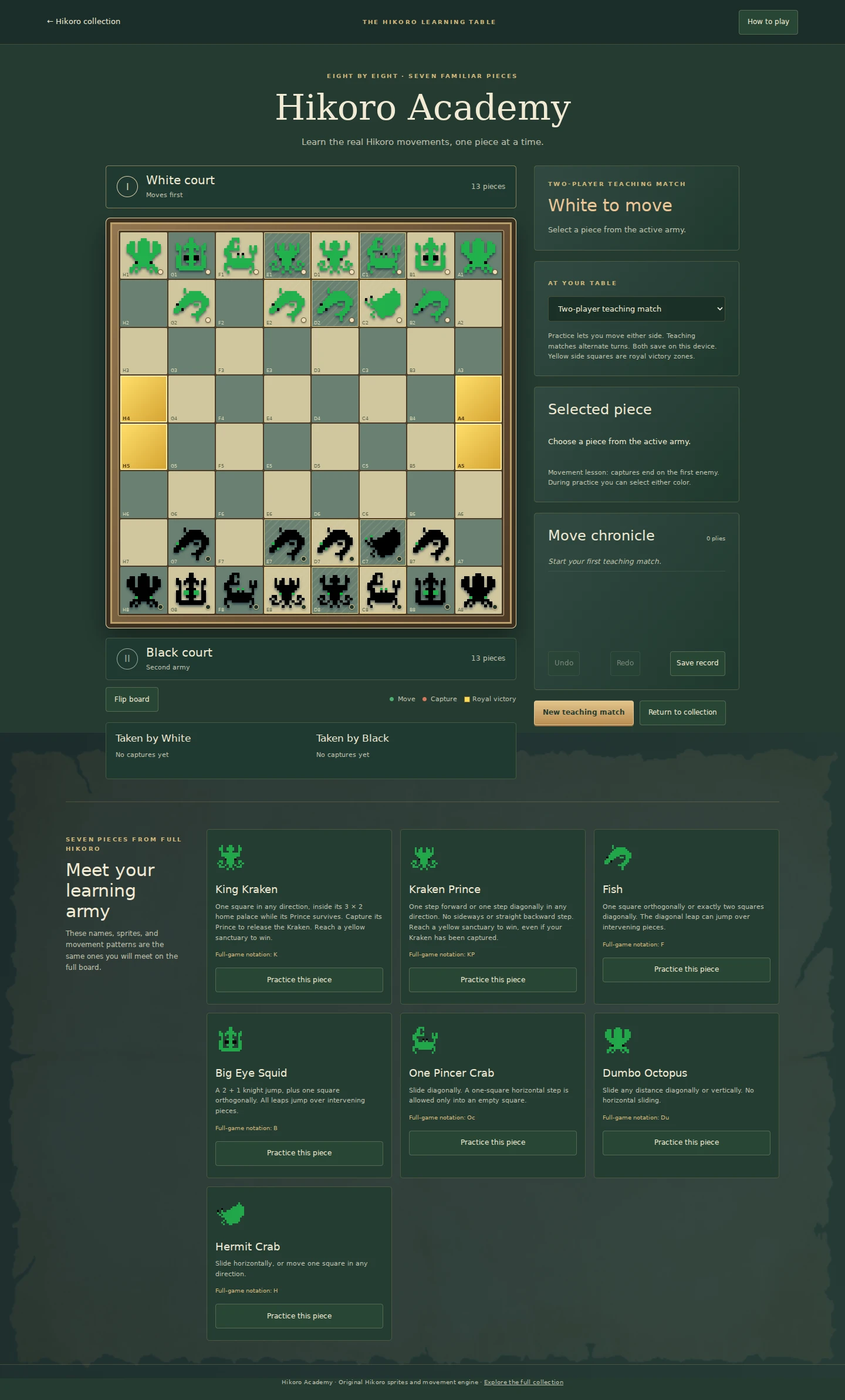
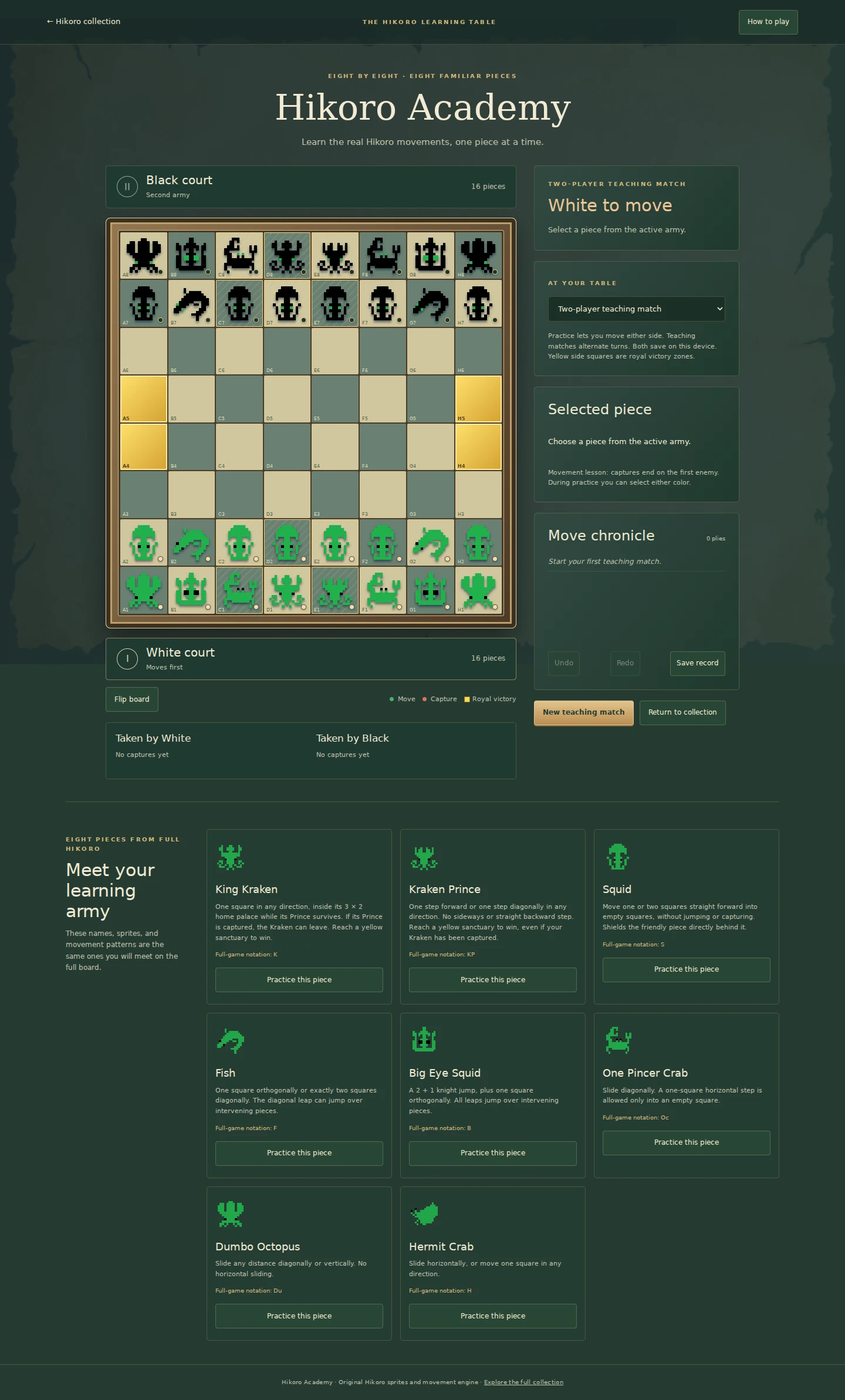
Use symmetric Squid and Fish second ranks in Hikoro Academy

diff --git a/HikoroChess/tests/academy.test.js b/HikoroChess/tests/academy.test.js
@@ -3,13 +3,13 @@ const {createServer}=require('../server'),{io:connect}=require('socket.io-client
 const move=(a,b)=>({from:{r:a[0],c:a[1]},to:{r:b[0],c:b[1]}});
 function pos(type,r=3,c=3){const s=A.initial();s.board=Array.from({length:8},()=>Array(8).fill(null));s.board[r][c]={type,owner:1};return s;}
 const coords=(s,from)=>A.legalMoves(s,from).map(p=>p.r+','+p.c).sort();
-test('26-piece teaching setup, seven authentic types and all lesson setups replay correctly',()=>{const s=A.initial();assert.equal(s.board.flat().filter(Boolean).length,26);assert.equal(s.board[7][3].type,'lupa');assert.equal(s.board[0][3].owner,2);assert.equal(Object.keys(A.TYPES).length,7);for(const type of Object.keys(A.TYPES)){const practice=A.initial('lesson',type);const origin=A.lessonOrigin(type);assert.equal(practice.board[origin.r][origin.c].type,type);assert.equal(practice.board.flat().filter(Boolean).length,['lupa','prince'].includes(type)?6:5);assert.deepEqual(A.replay([],0,'lesson',type),practice);}assert.throws(()=>A.initial('bad'));});
+test('32-piece teaching setup, eight authentic types and all lesson setups replay correctly',()=>{const s=A.initial();assert.equal(s.board.flat().filter(Boolean).length,32);assert.equal(s.board[7][3].type,'lupa');assert.equal(s.board[0][3].owner,2);assert.equal(Object.keys(A.TYPES).length,8);for(const type of Object.keys(A.TYPES)){const practice=A.initial('lesson',type);const origin=A.lessonOrigin(type);assert.equal(practice.board[origin.r][origin.c].type,type);assert.equal(practice.board.flat().filter(Boolean).length,['lupa','prince'].includes(type)?6:5);assert.deepEqual(A.replay([],0,'lesson',type),practice);}assert.throws(()=>A.initial('bad'));});
 test('Fish leaps two diagonally over blockers and never moves like a regular chess pawn',()=>{const s=pos('pawn');s.board[2][2]={type:'pawn',owner:1};assert.deepEqual(coords(s,{r:3,c:3}),['1,1','1,5','2,3','3,2','3,4','4,3','5,1','5,5'].sort());assert.ok(!coords(s,{r:3,c:3}).includes('2,2'));assert.equal(A.apply(s,move([3,3],[1,1])).board[1][1].type,'pawn');});
 test('Squid has eight knight jumps and four orthogonal steps; Crab cannot capture horizontally',()=>{const s=pos('yoli');assert.equal(A.legalMoves(s,{r:3,c:3}).length,12);s.board[2][3]={type:'pawn',owner:1};assert.ok(coords(s,{r:3,c:3}).includes('1,2'));assert.ok(!coords(s,{r:3,c:3}).includes('2,3'));const crab=pos('fin');crab.board[3][4]={type:'pawn',owner:2};assert.ok(!coords(crab,{r:3,c:3}).includes('3,4'));assert.ok(coords(crab,{r:3,c:3}).includes('3,2'));crab.board[1][1]={type:'pawn',owner:2};crab.board[0][0]={type:'pawn',owner:2};assert.ok(coords(crab,{r:3,c:3}).includes('1,1'));assert.ok(!coords(crab,{r:3,c:3}).includes('0,0'));});
 test('Octopus, Hermit Crab and unrestricted King use exact full Hikoro movement',()=>{assert.equal(A.legalMoves(pos('chair'),{r:3,c:3}).length,20);assert.equal(A.legalMoves(pos('kota'),{r:3,c:3}).length,13);assert.equal(A.legalMoves(pos('lupa'),{r:3,c:3}).length,8);assert.ok(!coords(pos('chair'),{r:3,c:3}).includes('3,5'));assert.ok(coords(pos('kota'),{r:3,c:3}).includes('2,2'));});
-test('all seven types match the full engine on 60 random blocker positions each, with bounds clamped',()=>{let seed=72;const rnd=()=>{seed=(seed*1664525+1013904223)>>>0;return seed;};for(const type of Object.keys(A.TYPES))for(let i=0;i<60;i++){const r=rnd()%8,c=rnd()%8,s=pos(type,r,c);for(let j=0;j<18;j++){const y=rnd()%8,x=rnd()%8;if(y!==r||x!==c)s.board[y][x]={type:'pawn',owner:rnd()%2+1};}const padded=Array.from({length:16},()=>Array(10).fill(null));for(let y=0;y<8;y++)for(let x=0;x<8;x++){const p=s.board[y][x];if(p)padded[y+4][x+1]={type:p.type,color:p.owner===1?'black':'white'};}const expected=[...new Set(full.getValidMovesForPiece(padded[r+4][c+1],c+1,r+4,padded).map(p=>({r:p.y-4,c:p.x-1})).filter(p=>p.r>=0&&p.r<8&&p.c>=0&&p.c<8).map(p=>p.r+','+p.c))].sort();assert.deepEqual(coords(s,{r,c}),expected);}});
+test('all eight types match the full engine on 60 random blocker positions each, with bounds clamped',()=>{let seed=72;const rnd=()=>{seed=(seed*1664525+1013904223)>>>0;return seed;};for(const type of Object.keys(A.TYPES))for(let i=0;i<60;i++){const r=rnd()%8,c=rnd()%8,s=pos(type,r,c);for(let j=0;j<18;j++){const y=rnd()%8,x=rnd()%8;if(y!==r||x!==c)s.board[y][x]={type:'pawn',owner:rnd()%2+1};}const padded=Array.from({length:16},()=>Array(10).fill(null));for(let y=0;y<8;y++)for(let x=0;x<8;x++){const p=s.board[y][x];if(p)padded[y+4][x+1]={type:p.type,color:p.owner===1?'black':'white'};}const expected=[...new Set(full.getValidMovesForPiece(padded[r+4][c+1],c+1,r+4,padded).map(p=>({r:p.y-4,c:p.x-1})).filter(p=>p.r>=0&&p.r<8&&p.c>=0&&p.c<8).map(p=>p.r+','+p.c))].sort();assert.deepEqual(coords(s,{r,c}),expected);}});
 test('practice allows either color; teaching matches enforce turns, commander victory and journal validation',()=>{const practice=A.initial('lesson','pawn');const action=move([2,1],[2,2]);assert.ok(A.apply(practice,action));assert.equal(A.apply(A.initial(),move([0,0],[2,2])),null);const s=pos('kota',4,0);s.board[4][7]={type:'lupa',owner:2};s.board[7][3]={type:'lupa',owner:1};const win=A.apply(s,move([4,0],[4,7]));assert.equal(win.result.winner,1);assert.equal(win.board[4][7].type,'kota');assert.equal(A.apply(win,move([7,3],[6,3])),null);for(const action of [null,{},move([7,0],[8,0]),move([7.5,0],[5,0]),move([7,0],[0,7])])assert.equal(A.apply(A.initial(),action),null);const journal=[move([6,1],[5,1]),move([1,1],[2,1])];assert.equal(A.replay(journal).ply,2);assert.equal(A.replay(journal,1).ply,1);assert.equal(A.replay(journal,-1),null);});
-test('300 randomized legal teaching plies conserve pieces and preserve board bounds',()=>{let s=A.initial(),seed=41;for(let i=0;i<300;i++){if(s.result)s=A.initial();const actions=A.allMoves(s);assert.ok(actions.length);seed=(seed*1664525+1013904223)>>>0;s=A.apply(s,actions[seed%actions.length]);assert.ok(s);assert.equal(s.board.flat().filter(Boolean).length+s.captured[1].length+s.captured[2].length,26);assert.equal(s.board.length,8);}});
+test('300 randomized legal teaching plies conserve pieces and preserve board bounds',()=>{let s=A.initial(),seed=41;for(let i=0;i<300;i++){if(s.result)s=A.initial();const actions=A.allMoves(s);assert.ok(actions.length);seed=(seed*1664525+1013904223)>>>0;s=A.apply(s,actions[seed%actions.length]);assert.ok(s);assert.equal(s.board.flat().filter(Boolean).length+s.captured[1].length+s.captured[2].length,32);assert.equal(s.board.length,8);}});
 const once=(s,event)=>new Promise((resolve,reject)=>{const timer=setTimeout(()=>reject(Error('Timeout '+event)),4000);s.once(event,value=>{clearTimeout(timer);resolve(value);});});
 test('online Academy authenticates seats and turns, synchronizes and resumes teaching matches',async t=>{const {server,io}=createServer();await new Promise(r=>server.listen(0,'127.0.0.1',r));const clients=[];t.after(async()=>{clients.forEach(s=>s.disconnect());await new Promise(r=>io.close(r));});async function client(){const s=connect('http://127.0.0.1:'+server.address().port,{forceNew:true,transports:['websocket']});clients.push(s);await once(s,'connect');return s;}const a=await client(),b=await client(),outside=await client(),ticket=once(a,'seatAssigned'),created=once(a,'gameCreated');a.emit('createGame',{gameType:'academy'});const {gameId}=await created,seat=await ticket;const start=once(a,'gameStart');b.emit('joinGame',gameId);await start;let sync=once(a,'academyState');a.emit('joinAcademyRoom',{gameId,token:seat.token});assert.equal((await sync).state.mode,'match');let error=once(b,'errorMsg');b.emit('academyAction',{gameId,action:move([6,1],[5,1])});await error;error=once(outside,'errorMsg');outside.emit('academyResign',{gameId});await error;sync=once(a,'academyState');const other=once(b,'academyState');a.emit('academyAction',{gameId,action:move([6,1],[5,1])});const [x,y]=await Promise.all([sync,other]);assert.deepEqual(x.state,y.state);assert.equal(x.state.ply,1);const replacement=await client();sync=once(replacement,'academyState');replacement.emit('joinAcademyRoom',{gameId,token:seat.token});assert.equal((await sync).state.ply,1);error=once(a,'errorMsg');a.emit('academyResign',{gameId});await error;sync=once(replacement,'academyState');b.emit('academyResign',{gameId});assert.equal((await sync).state.result.winner,1);});
 test('both Krakens stay inside 3×2 home palaces until their own Prince is captured',()=>{
@@ -37,4 +37,13 @@ test('one surviving royal keeps playing and only capture of both royals ends the
  n=A.apply(n,move([4,7],[3,6]));assert.equal(n.result,null);
  n.player=2;n.board[3][6]=null;n.board[5][6]={type:'prince',owner:2};n=A.apply(n,move([5,6],[4,7]));assert.equal(n.result.reason,'Sanctuary reached');
  const t=pos('kota',2,0);t.board[2][3]={type:'prince',owner:2};t.board[7][3]={type:'lupa',owner:1};const win=A.apply(t,move([2,0],[2,3]));assert.equal(win.result.reason,'Both opposing royals captured');assert.equal(win.result.winner,1);
+});
+test('armies have mirrored non-royal pairs and six normal Squids with Fish on B and G',()=>{
+ const s=A.initial(),back=['chair','yoli','fin','lupa','prince','fin','yoli','chair'],front=['pilut','pawn','pilut','pilut','pilut','pilut','pawn','pilut'];
+ for(const owner of [1,2]){const r=owner===1?7:0,f=owner===1?6:1;assert.deepEqual(s.board[r].map(p=>p.type),back);assert.deepEqual(s.board[f].map(p=>p.type),front);assert.ok(s.board[r].every(p=>p.owner===owner));assert.ok(s.board[f].every(p=>p.owner===owner));for(const c of [0,1,2])assert.equal(s.board[r][c].type,s.board[r][7-c].type);assert.deepEqual(front,[...front].reverse());}
+});
+test('normal Squids advance without jumping or capturing and shield against all capture patterns',()=>{
+ for(const owner of [1,2]){const s=pos('pilut',owner===1?6:1,3);s.player=owner;s.board[owner===1?6:1][3].owner=owner;const r=owner===1?6:1,d=owner===1?-1:1;assert.deepEqual(coords(s,{r,c:3}),[r+d+','+3,r+2*d+','+3].sort());s.board[r+d][3]={type:'pawn',owner:3-owner};assert.equal(A.legalMoves(s,{r,c:3}).length,0);}
+ for(const type of ['lupa','prince','pawn','yoli','fin','chair','kota']){const s=pos(type,4,3);s.board[3][4]={type:'pawn',owner:2};s.board[4][4]={type:'pilut',owner:2};assert.ok(!coords(s,{r:4,c:3}).includes('3,4'));s.board[4][4]=null;if(['lupa','prince','fin','chair','kota'].includes(type))assert.ok(coords(s,{r:4,c:3}).includes('3,4'));}
+ const practice=A.initial('lesson','pilut');assert.deepEqual(coords(practice,A.lessonOrigin('pilut')),['3,3']);
 });

diff --git a/HikoroChess/public/academy.html b/HikoroChess/public/academy.html
@@ -1,10 +1,10 @@
 <!doctype html><html lang="en"><head><meta charset="utf-8"><meta name="viewport" content="width=device-width,initial-scale=1"><meta name="theme-color" content="#20392f"><title>Hikoro Academy · Hikoro collection</title><link rel="stylesheet" href="shavari.css"><link rel="stylesheet" href="hikoruka.css"><link rel="stylesheet" href="academy.css"><script src="gamelogic.js" defer></script><script src="academy-engine.js" defer></script><script src="/socket.io/socket.io.js" defer></script><script src="academy-ui.js" defer></script></head>
 <body class="academy-table"><header class="site-header"><a href="/" class="collection-link">← Hikoro collection</a><span class="edition">THE HIKORO LEARNING TABLE</span><button id="rules-button" class="quiet-button">How to play</button></header>
-<main><section class="introduction"><p class="eyebrow">EIGHT BY EIGHT · SEVEN FAMILIAR PIECES</p><h1>Hikoro Academy</h1><p>Learn the real Hikoro movements, one piece at a time.</p></section>
+<main><section class="introduction"><p class="eyebrow">EIGHT BY EIGHT · EIGHT FAMILIAR PIECES</p><h1>Hikoro Academy</h1><p>Learn the real Hikoro movements, one piece at a time.</p></section>
 <div class="match-layout"><section class="play-area" aria-label="Hikoro learning table">
-<div class="player-strip turquoise" id="strip-2"><span class="player-mark">II</span><div><strong>Black court</strong><small id="court-2">Northern army</small></div><span class="army-count" id="count-2">13 pieces</span></div>
+<div class="player-strip turquoise" id="strip-2"><span class="player-mark">II</span><div><strong>Black court</strong><small id="court-2">Northern army</small></div><span class="army-count" id="count-2">16 pieces</span></div>
 <div class="mini-board-frame"><div id="board" role="group" aria-label="8 by 8 learning board. Arrow keys navigate; Enter selects or moves."></div></div>
-<div class="player-strip carnelian" id="strip-1"><span class="player-mark">I</span><div><strong>White court</strong><small id="court-1">Southern army · moves first</small></div><span class="army-count" id="count-1">13 pieces</span></div>
+<div class="player-strip carnelian" id="strip-1"><span class="player-mark">I</span><div><strong>White court</strong><small id="court-1">Southern army · moves first</small></div><span class="army-count" id="count-1">16 pieces</span></div>
 <div class="board-tools"><button id="flip-button" class="quiet-button">Flip board</button><span><i class="legend-dot"></i> Move <i class="legend-dot capture-dot"></i> Capture <i class="sanctuary-key"></i> Royal victory</span></div>
 <section class="captures"><div><h3>Taken by White</h3><div id="captures-1" class="capture-list"></div></div><div><h3>Taken by Black</h3><div id="captures-2" class="capture-list"></div></div></section>
 </section><aside class="match-panel">
@@ -15,8 +15,8 @@
 <section class="panel chronicle"><div class="panel-title"><h2>Move chronicle</h2><span id="move-count">0 plies</span></div><ol id="move-history" aria-label="Move history"></ol><div class="history-tools"><button id="undo-button" class="quiet-button" disabled>Undo</button><button id="redo-button" class="quiet-button" disabled>Redo</button><button id="save-button" class="quiet-button">Save record</button></div></section>
 <div class="match-actions"><button id="new-button" class="primary-button">Reset table</button><button id="resign-button" class="quiet-button" hidden>Resign</button><a href="/" id="lobby-link" class="quiet-button">Return to collection</a></div>
 </aside></div>
-<section class="piece-guide"><div><p class="eyebrow">SEVEN PIECES FROM FULL HIKORO</p><h2>Meet your learning army</h2><p>These names, sprites, and movement patterns are the same ones you will meet on the full board.</p></div><div class="guide-cards" id="guide-cards"></div></section></main>
+<section class="piece-guide"><div><p class="eyebrow">EIGHT PIECES FROM FULL HIKORO</p><h2>Meet your learning army</h2><p>These names, sprites, and movement patterns are the same ones you will meet on the full board.</p></div><div class="guide-cards" id="guide-cards"></div></section></main>
 <footer>Hikoro Academy · Original Hikoro sprites and movement engine · <a href="/">Explore the full collection</a></footer>
-<dialog id="rules-dialog" aria-labelledby="rules-title"><div class="dialog-header"><p class="eyebrow">THE HIKORO LEARNING TABLE</p><button id="close-rules" class="quiet-button">Close ×</button></div><h2 id="rules-title">Learn Hikoro on 8 × 8</h2><p>This table teaches seven real Hikoro piece movements with the original names and sprites: King Kraken, Kraken Prince, Fish, Big Eye Squid, One Pincer Crab, Dumbo Octopus, and Hermit Crab. The movement code is shared with the full game.</p><h3>Guided practice</h3><p>Choose a piece lesson. The featured White piece begins near the middle (the Kraken starts in its home palace), with a friendly blocker and three Black Fish as capture targets. Select either color, explore green movement dots and red capture rings, and make moves without turn restrictions. Undo freely or reset the lesson. Arrow keys navigate; Enter or Space selects; Escape clears selection.</p><h3>Teaching match</h3><p>Each side starts with thirteen pieces on an 8 × 8 square board. White moves first. Win by moving either royal onto a yellow sanctuary at A4, A5, H4, or H5, or by capturing both opposing royals. Capturing the Kraken alone does not end the game: the Prince can still win. There is no check or checkmate. Threefold repetition, no legal moves, or 1,000 plies draw. Start an online Academy table through the collection to teach someone remotely.</p><h3>What this lesson leaves for the full board</h3><p>This is a movement-learning variant. Each Kraken starts inside a horizontal 3 × 2 palace: C1–E2 for White and C7–E8 for Black. It must stay there while its own Prince survives. Once that Prince is captured, the Kraken may leave. Either royal can reach either yellow sanctuary. There is no shielding, promotion, bonus turn, or captured-piece drop. Fish and One Pincer Crab retain their starting movement after captures. In full Hikoro they can promote; this table keeps the seven starting patterns available for practice. The Prince keeps its full Hikoro movement: one forward step or one diagonal step in any direction.</p><p>Local progress saves automatically. Online games enforce turns and restore your private seat after refresh; they use teaching-match mode and disable undo. Server restarts clear online rooms. Flip board changes only the view.</p></dialog>
+<dialog id="rules-dialog" aria-labelledby="rules-title"><div class="dialog-header"><p class="eyebrow">THE HIKORO LEARNING TABLE</p><button id="close-rules" class="quiet-button">Close ×</button></div><h2 id="rules-title">Learn Hikoro on 8 × 8</h2><p>This table teaches eight real Hikoro piece movements with the original names and sprites: King Kraken, Kraken Prince, Squid, Fish, Big Eye Squid, One Pincer Crab, Dumbo Octopus, and Hermit Crab. The movement code is shared with the full game.</p><h3>Guided practice</h3><p>Choose a piece lesson. The featured White piece begins near the middle (the Kraken starts in its home palace), with a friendly blocker and three Black Fish as capture targets. Select either color, explore green movement dots and red capture rings, and make moves without turn restrictions. Undo freely or reset the lesson. Arrow keys navigate; Enter or Space selects; Escape clears selection.</p><h3>Teaching match</h3><p>Each side starts with sixteen pieces on an 8 × 8 square board. Both second ranks are Squid / Fish / Squid / Squid / Squid / Squid / Fish / Squid. The back ranks mirror each other around the Kraken and Prince. White moves first. Win by moving either royal onto a yellow sanctuary at A4, A5, H4, or H5, or by capturing both opposing royals. Capturing the Kraken alone does not end the game: the Prince can still win. There is no check or checkmate. Threefold repetition, no legal moves, or 1,000 plies draw. Start an online Academy table through the collection to teach someone remotely.</p><h3>What this lesson leaves for the full board</h3><p>This is a movement-learning variant. Each Kraken starts inside a horizontal 3 × 2 palace: C1–E2 for White and C7–E8 for Black. It must stay there while its own Prince survives. Once that Prince is captured, the Kraken may leave. Either royal can reach either yellow sanctuary. Normal Squids shield the friendly piece directly behind them, as in full Hikoro. There is no promotion, bonus turn, or captured-piece drop. Fish and One Pincer Crab retain their starting movement after captures. In full Hikoro they can promote; this table keeps the eight starting patterns available for practice. The Prince keeps its full Hikoro movement: one forward step or one diagonal step in any direction.</p><p>Local progress saves automatically. Online games enforce turns and restore your private seat after refresh; they use teaching-match mode and disable undo. Server restarts clear online rooms. Flip board changes only the view.</p></dialog>
 <dialog id="confirm-dialog" aria-labelledby="confirm-title"><p class="eyebrow">AT THE TABLE</p><h2 id="confirm-title">Start a new match?</h2><p id="confirm-message"></p><div class="dialog-actions"><button id="cancel-confirm" class="quiet-button">Keep playing</button><button id="accept-confirm" class="primary-button">Start new match</button></div></dialog>
 </body></html>

diff --git a/HikoroChess/public/academy-engine.js b/HikoroChess/public/academy-engine.js
@@ -12,6 +12,7 @@ const lessonOrigin=lesson=>lesson==='lupa'?{r:7,c:3}:{r:4,c:3};
 const TYPES=Object.freeze({
     lupa:{name:'King Kraken',notation:'K',description:'One square in any direction, inside its 3 × 2 home palace while its Prince survives. If its Prince is captured, the Kraken can leave. Reach a yellow sanctuary to win.',lesson:'The Kraken starts in the outlined home palace. Move a Black target to capture its Prince, then explore the released Kraken’s paths.'},
     prince:{name:'Kraken Prince',notation:'KP',description:'One step forward or one step diagonally in any direction. No sideways or straight backward step. Reach a yellow sanctuary to win, even if your Kraken has been captured.',lesson:'White advances toward rank 8; Black toward rank 1. The Prince can roam from the start, while its Kraken stays in the home palace.'},
+    pilut:{name:'Squid',notation:'S',description:'Move one or two squares straight forward into empty squares, without jumping or capturing. Shields the friendly piece directly behind it.',lesson:'White advances toward rank 8; Black toward rank 1. Move the blocker to compare one-step and two-step advances. A Squid shields the friendly piece immediately behind it.'},
     pawn:{name:'Fish',notation:'F',description:'One square orthogonally or exactly two squares diagonally. The diagonal leap can jump over intervening pieces.',lesson:'This is not a normal chess pawn: it moves and captures in the same eight directions, with no forward restriction.'},
     yoli:{name:'Big Eye Squid',notation:'B',description:'A 2 + 1 knight jump, plus one square orthogonally. All leaps jump over intervening pieces.',lesson:'Compare the eight L-shaped leaps with the four short orthogonal steps.'},
     fin:{name:'One Pincer Crab',notation:'Oc',description:'Slide diagonally. A one-square horizontal step is allowed only into an empty square.',lesson:'Green marks empty destinations; red marks captures. A horizontal enemy cannot be captured by this piece.'},
@@ -27,8 +28,7 @@ function initial(mode='match',lesson='pawn'){
     if(mode==='match')for(const owner of [1,2]){
         const back=owner===1?7:0,front=owner===1?6:1;
         ['chair','yoli','fin','lupa','prince','fin','yoli','chair'].forEach((type,c)=>s.board[back][c]={type,owner});
-        s.board[front][2]={type:'kota',owner};
-        for(const c of [1,3,4,6])s.board[front][c]={type:'pawn',owner};
+        ['pilut','pawn','pilut','pilut','pilut','pilut','pawn','pilut'].forEach((type,c)=>s.board[front][c]={type,owner});
     }else{
         const origin=lessonOrigin(lesson);s.board[origin.r][origin.c]={type:lesson,owner:1};
         for(const [r,c]of [[2,1],[4,4],[6,5]])s.board[r][c]={type:'pawn',owner:2};
@@ -36,7 +36,7 @@ function initial(mode='match',lesson='pawn'){
             s.board[6][3]={type:'pawn',owner:1};
             s.board[6][4]={type:'prince',owner:1};
         }else{
-            s.board[3][3]={type:'pawn',owner:1};
+            s.board[lesson==='pilut'?2:3][3]={type:'pawn',owner:1};
             if(lesson==='prince')s.board[7][3]={type:'lupa',owner:1};
         }
     }
@@ -45,22 +45,14 @@ function initial(mode='match',lesson='pawn'){
 function movesFor(board,from){
     if(!point(from)||!TYPES[board[from.r]?.[from.c]?.type])return[];
     const current=board[from.r][from.c];
-    // The teaching palace has different bounds from the full board's palace.
-    if(current.type==='lupa'){
-        const moves=[];
-        for(let dr=-1;dr<=1;dr++)for(let dc=-1;dc<=1;dc++){
-            if(!dr&&!dc)continue;
-            const to={r:from.r+dr,c:from.c+dc};
-            if(point(to)&&board[to.r][to.c]?.owner!==current.owner&&(!hasPrince(board,current.owner)||inPalace(to,current.owner)))moves.push(to);
-        }
-        return moves;
-    }
     // Embed the 8×8 square in the full board's uninterrupted center, away from cut-out corners.
     // Map White's forward toward rank 8 (decreasing rows), Black toward rank 1.
     const padded=Array.from({length:full.BOARD_HEIGHT},()=>Array(full.BOARD_WIDTH).fill(null));
     for(let r=0;r<SIZE;r++)for(let c=0;c<SIZE;c++){const p=board[r][c];if(p)padded[r+4][c+1]={type:p.type,color:p.owner===1?'black':'white'};}
+    // Let the full engine handle Kraken steps and Squid shields, then apply the smaller palace.
+    if(current.type==='lupa')for(const row of padded)for(let c=0;c<row.length;c++)if(row[c]?.type==='prince'&&row[c].color===(current.owner===1?'black':'white'))row[c]=null;
     const piece=padded[from.r+4][from.c+1],seen=new Set();
-    return full.getValidMovesForPiece(piece,from.c+1,from.r+4,padded).map(m=>({r:m.y-4,c:m.x-1})).filter(m=>{const k=m.r+','+m.c;if(!point(m)||seen.has(k))return false;seen.add(k);return true;});
+    return full.getValidMovesForPiece(piece,from.c+1,from.r+4,padded).map(m=>({r:m.y-4,c:m.x-1})).filter(m=>{const k=m.r+','+m.c;if(!point(m)||seen.has(k)||current.type==='lupa'&&hasPrince(board,current.owner)&&!inPalace(m,current.owner))return false;seen.add(k);return true;});
 }
 function legalMoves(s,from){if(!s||s.result||!point(from)||!s.board[from.r][from.c]||s.mode==='match'&&s.board[from.r][from.c].owner!==s.player)return[];return movesFor(s.board,from);}
 function allMoves(s){if(!s||s.result)return[];const moves=[];for(let r=0;r<SIZE;r++)for(let c=0;c<SIZE;c++)if(s.board[r][c]&&(s.mode==='lesson'||s.board[r][c].owner===s.player))for(const to of legalMoves(s,{r,c}))moves.push({from:{r,c},to});return moves;}

diff --git a/HikoroChess/public/site-ui.js b/HikoroChess/public/site-ui.js
@@ -16,7 +16,7 @@ document.addEventListener('DOMContentLoaded', () => {
         ['time-control', 'byoyomi-control'].forEach(id => {
             const el = document.getElementById(id); el.disabled = sds || shavari || mini || go || academy; el.parentElement.hidden = sds || shavari || mini || go || academy;
         });
-        document.getElementById('setup-hint').textContent = sds ? 'Sho Dan Sho is untimed. Choose 2–4 players, then open an online room or share this device.' : shavari ? 'Shavari chess is untimed. Share this device with saved progress, or open a two-player online table.' : mini ? 'Hikorüka is untimed. Play locally with a friend or the bot, or open a two-player online table.' : go ? 'Shield Go is untimed. Choose a board size, then share this device or open an online table for two players.' : academy ? 'Learn seven real Hikoro pieces, royal palaces, and sanctuary wins on 8 × 8. Local play includes guided practice; online rooms use a two-player teaching match.' : 'Online rooms need a second player. Local play shares this device.';
+        document.getElementById('setup-hint').textContent = sds ? 'Sho Dan Sho is untimed. Choose 2–4 players, then open an online room or share this device.' : shavari ? 'Shavari chess is untimed. Share this device with saved progress, or open a two-player online table.' : mini ? 'Hikorüka is untimed. Play locally with a friend or the bot, or open a two-player online table.' : go ? 'Shield Go is untimed. Choose a board size, then share this device or open an online table for two players.' : academy ? 'Learn eight real Hikoro pieces, royal palaces, and sanctuary wins on 8 × 8. Local play includes guided practice; online rooms use a two-player teaching match.' : 'Online rooms need a second player. Local play shares this device.';
     }
     preferences.forEach(id => document.getElementById(id).addEventListener('change', () => {
         try { localStorage.setItem('hikoro-preferences', JSON.stringify(Object.fromEntries(preferences.map(id => [id, document.getElementById(id).value])))); } catch {}

diff --git a/HikoroChess/public/academy-ui.js b/HikoroChess/public/academy-ui.js
@@ -1,6 +1,6 @@
 (() => {
 'use strict';
-const A=HikoroAcademy,$=id=>document.getElementById(id),names={1:'White',2:'Black'},params=new URLSearchParams(location.search),gameId=params.get('gameId'),online=Boolean(gameId),storageKey='hikoro-academy-local-v2';
+const A=HikoroAcademy,$=id=>document.getElementById(id),names={1:'White',2:'Black'},params=new URLSearchParams(location.search),gameId=params.get('gameId'),online=Boolean(gameId),storageKey='hikoro-academy-local-v3';
 let mode=online?'match':'lesson',lesson='pawn',state=A.initial(mode,lesson),journal=[],cursor=0,selected=online?null:A.lessonOrigin(lesson),flipped=false;
 let socket,mySeat=null,connected=false,synced=false,pending=false,closed=false,confirmation=null;
 const cells=[],sprite=(type,owner)=>`sprites/${type}_${owner===1?'white':'black'}.png`;

diff --git a/HikoroChess/ACADEMY.md b/HikoroChess/ACADEMY.md
@@ -1,22 +1,23 @@
 # Hikoro Academy — 8×8 learner board
 
-A teaching variant at `/academy.html`, with seven original Hikoro pieces, guided practice, and local or online two-player matches. Hikorüka remains the separate 5×5 game.
+A teaching variant at `/academy.html`, with eight original Hikoro pieces, guided practice, and local or online two-player matches. Hikorüka remains the separate 5×5 game.
 
 ## Army and movements
 
-Each court starts with thirteen pieces. The back row is Octopus / Squid / Crab / Kraken / Prince / Crab / Squid / Octopus. The second rank contains a Hermit Crab at C and Fish at B, D, E, and G.
+Each court starts with sixteen pieces. The back row is Dumbo Octopus / Big Eye Squid / One Pincer Crab / Kraken / Prince / One Pincer Crab / Big Eye Squid / Dumbo Octopus. Both second ranks are Squid / Fish / Squid / Squid / Squid / Squid / Fish / Squid: six normal Squids with Fish on B and G. Every non-royal starting pair is mirrored across the center. Hermit Crab remains available in guided practice.
 
 | Piece | Notation | Movement |
 | --- | --- | --- |
 | King Kraken | K | One adjacent square; stays in its palace while its own Prince survives. |
 | Kraken Prince | KP | One forward step or one diagonal step in any direction. White advances toward rank 8; Black toward rank 1. |
+| Squid | S | One or two forward steps into empty squares; no jumping or captures. Shields the friendly piece directly behind it. |
 | Fish | F | One orthogonal step or a two-square diagonal leap. |
 | Big Eye Squid | B | Knight leaps plus one orthogonal step. |
 | One Pincer Crab | Oc | Diagonal sliding plus a horizontal one-square non-capture step. |
 | Dumbo Octopus | Du | Diagonal and vertical sliding. |
 | Hermit Crab | H | Horizontal sliding plus one adjacent step. |
 
-The six non-Kraken patterns use the full game's `getValidMovesForPiece`, embedded in the uninterrupted center of its board and clamped to 8×8. Court colors are mapped to preserve forward direction. Kraken steps use the learner board's own palace bounds. This leaves the full game's rules unchanged.
+All eight movement patterns use the full game's `getValidMovesForPiece`, embedded in the uninterrupted center of its board and clamped to 8×8. Court colors are mapped to preserve forward direction. For Kraken move generation, the adapter suppresses the full board's palace restriction and applies the learner board's own bounds. The full engine still checks Squid shielding for Kraken captures. This leaves the full game's rules unchanged.
 
 ## Palaces and victory
 
@@ -24,16 +25,16 @@ White's horizontal 3×2 home palace is C1–E2. Black's is C7–E8. Each Kraken 
 
 Yellow sanctuaries occupy A4/A5 and H4/H5: one column by two central ranks on either edge. Either royal can win by entering either sanctuary. The Prince can do so from the start and remains eligible if its Kraken is captured. Capturing one royal does not win; capturing both opposing royals does. There is no check or checkmate. Threefold repetition, no legal moves, or 1,000 plies draw.
 
-Guided practice allows either color to move and has no terminal result. The Kraken lesson includes its Prince so students can explore confinement and release. The Prince lesson includes a home Kraken. Lessons show moves, captures, and blockers; matches enforce alternating turns. This board omits shielding, promotions, bonus turns, and drops.
+Guided practice allows either color to move and has no terminal result. The Kraken lesson includes its Prince so students can explore confinement and release. The Prince lesson includes a home Kraken. Lessons show moves, captures, and blockers; matches enforce alternating turns. Squids retain their normal shielding of the friendly piece directly behind them. This board omits promotions, bonus turns, and drops.
 
 ## Interface and persistence
 
-Seven lessons, original sprites, palace and sanctuary markings, selected-piece explanations, coordinates, captures, history, board flipping, keyboard navigation, undo/redo, and text records. Flipping affects only the view, including palace and sanctuary positions. Online play uses the shared server engine, authenticated seats, refresh recovery, and no undo.
+Eight lessons, original sprites, palace and sanctuary markings, selected-piece explanations, coordinates, captures, history, board flipping, keyboard navigation, undo/redo, and text records. Flipping affects only the view, including palace and sanctuary positions. Online play uses the shared server engine, authenticated seats, refresh recovery, and no undo.
 
-Local journals use `hikoro-academy-local-v2` to avoid interpreting earlier six-piece sessions under new setup and victory rules. Earlier saved data remains under its old key. Online rooms clear when the server restarts.
+Local journals use `hikoro-academy-local-v3` to avoid interpreting earlier army setups under new setup and victory rules. Earlier saved data remains under its old key. Online rooms clear when the server restarts.
 
 ## Verification and deployment
 
-48 collection tests pass, covering both courts' confinement and release, Prince direction, all four sanctuary squares, non-royal exclusion, surviving royalty, random legal play, movement comparisons against full Hikoro, and online synchronization and seat protection. Browser checks cover all lessons, moves, captures, undo/redo, refresh, keyboard and flip controls, mobile/tablet/desktop layouts, and online play.
+50 collection tests pass, covering both courts' confinement and release, Prince direction, all four sanctuary squares, non-royal exclusion, surviving royalty, random legal play, movement comparisons against full Hikoro, and online synchronization and seat protection. Browser checks cover all lessons, moves, captures, undo/redo, refresh, keyboard and flip controls, mobile/tablet/desktop layouts, and online play.
 
 Preview images are in `docs/academy/`. Deployment uses the existing main branch and Render configuration: root HikoroChess, build npm ci, start npm start, health /health. No new dependencies.
